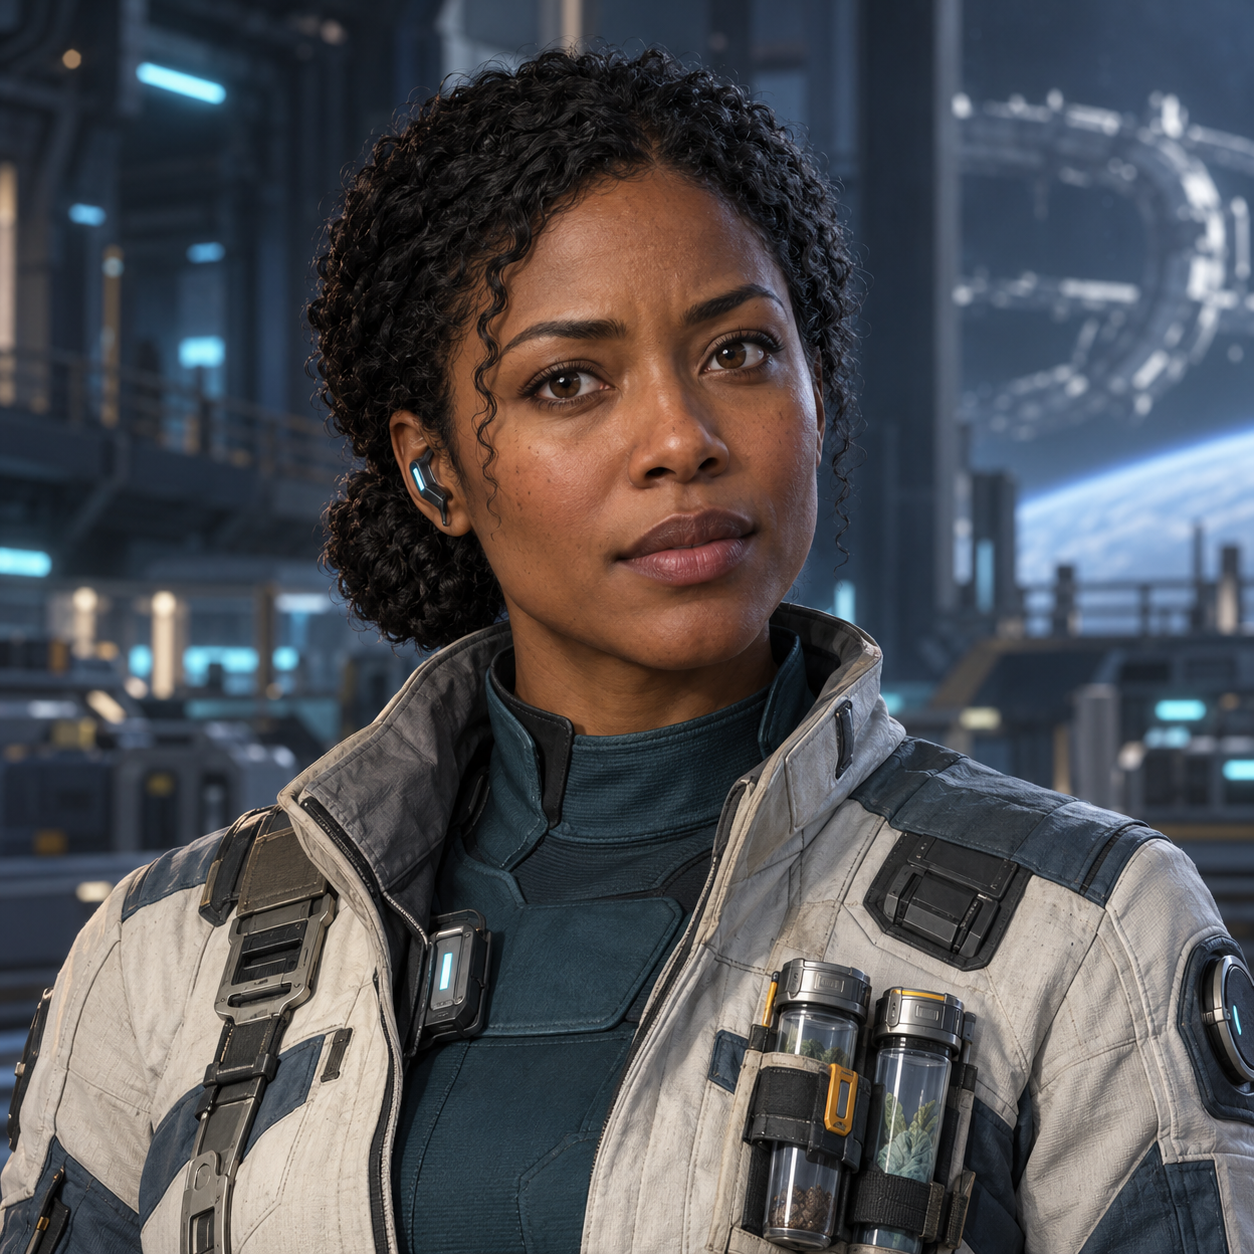
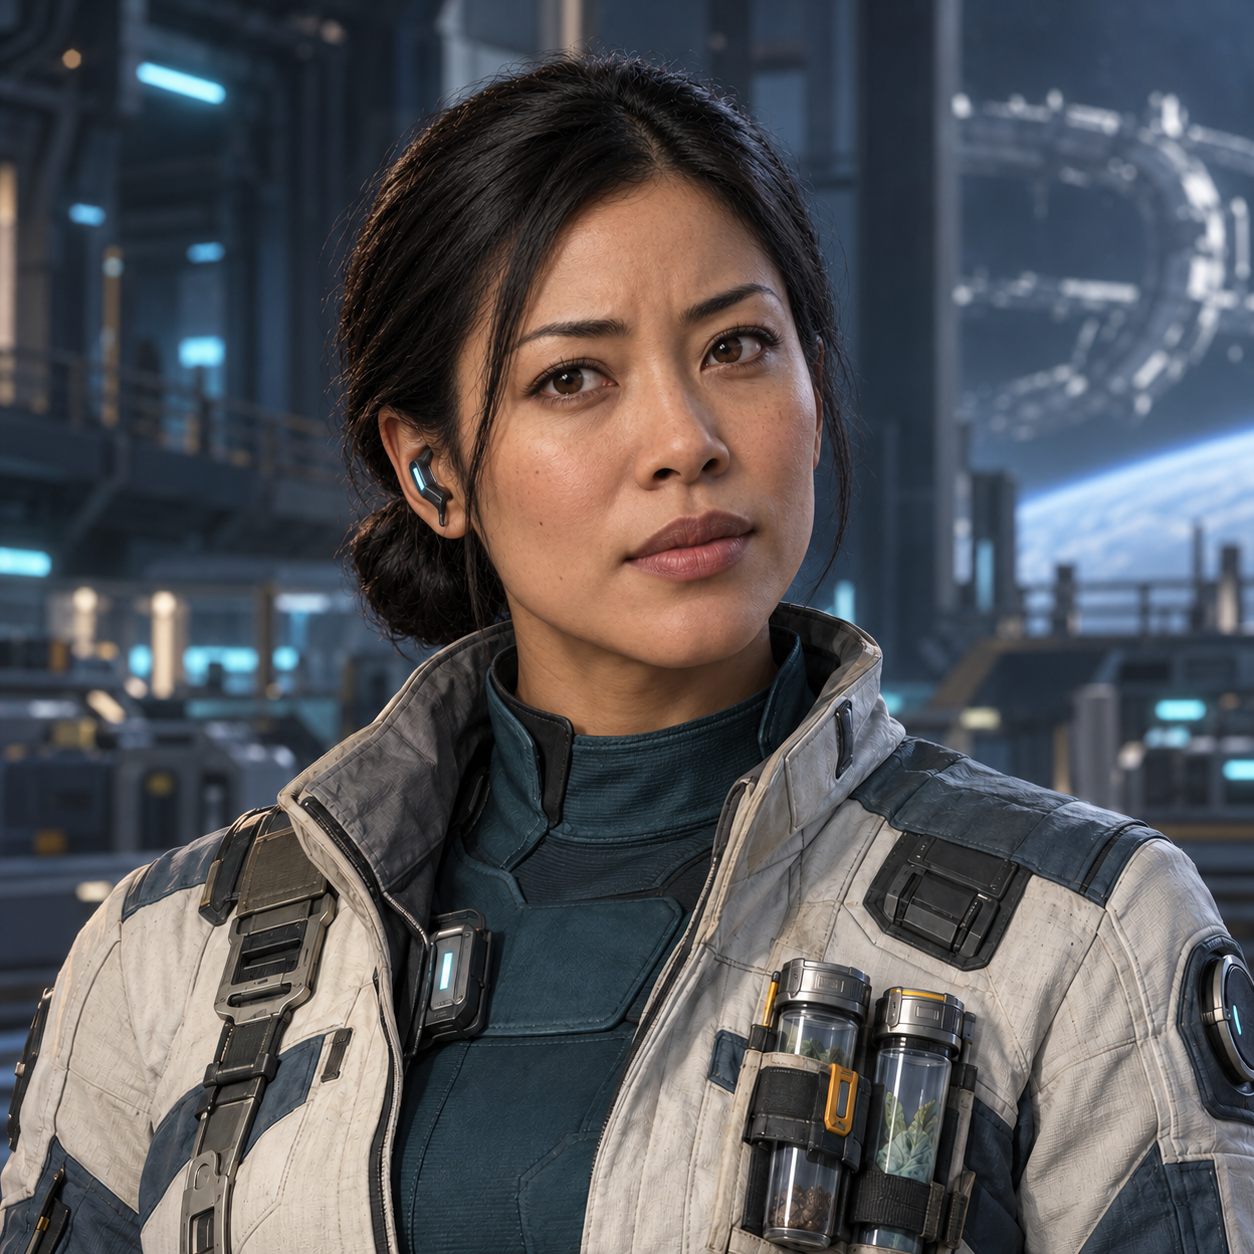
feat: update Dr. Sato portrait appearance

diff --git a/art/characters/README.md b/art/characters/README.md
@@ -30,5 +30,13 @@ Subject: Chief Engineer Tomas Brell, responsible for repairing Outpost 01 and br
 
 ### sato
 
+The original generation prompt below was followed by the appearance revision recorded afterward. The current portrait reflects the user's requested East Asian appearance.
+
 Subject: Dr. Imani Sato, Outpost 01 xenobiologist investigating alien activity, an orbital defense ring that was dismantled, and a lost colony's flight recorder. A woman around 35, deep brown skin, dark brown eyes, black tightly curled hair gathered into a neat low bun, thoughtful attentive expression, subtly raised brow suggesting scientific curiosity and concern. Practical off-white and slate field-research jacket over a dark teal station undersuit, small sealed sample containers securely clipped at chest, understated wrist instrument barely visible, compact comms earpiece. Scientific field specialist rather than medical doctor; no stethoscope. Slight three-quarter shoulders and near-frontal face.
+
+### Sato appearance revision
+
+Built-in image editing used the original Sato portrait as its reference. Final edit prompt:
+
+Use case: precise-object-edit. Edit the supplied fictional game character portrait of Dr. Imani Sato. User-requested change: redesign her appearance as an East Asian woman of Japanese heritage around 35, with natural light-to-medium skin tone, dark brown eyes and straight black hair neatly gathered into a low bun, a few fine loose strands. Thoughtful, attentive, capable xenobiologist with the same restrained expression. Realistic individual facial anatomy, no caricature or exaggerated features. Keep the square chest-up framing, near-frontal face, pose, off-white and slate field-research jacket, dark teal undersuit, sample containers, comms earpiece, cyan lighting, softly blurred industrial space-station backdrop, and grounded cinematic game portrait finish consistent with the reference. Change only her facial appearance and hair as needed for the requested redesign. Preserve clothing, equipment, background and composition as closely as possible. One person only, no text, no lettering, no labels, no border, no watermark.
 
